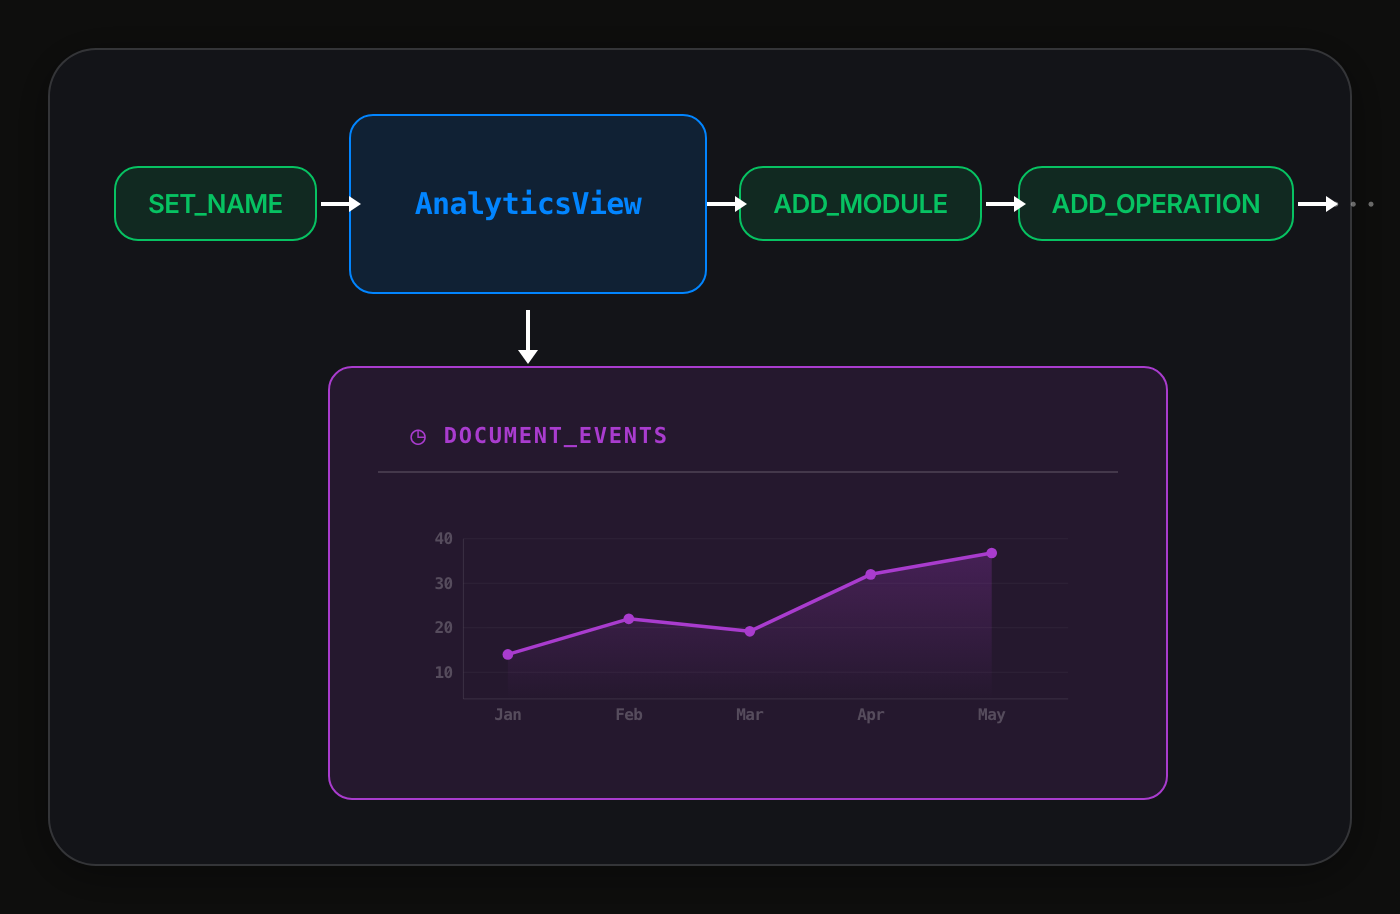
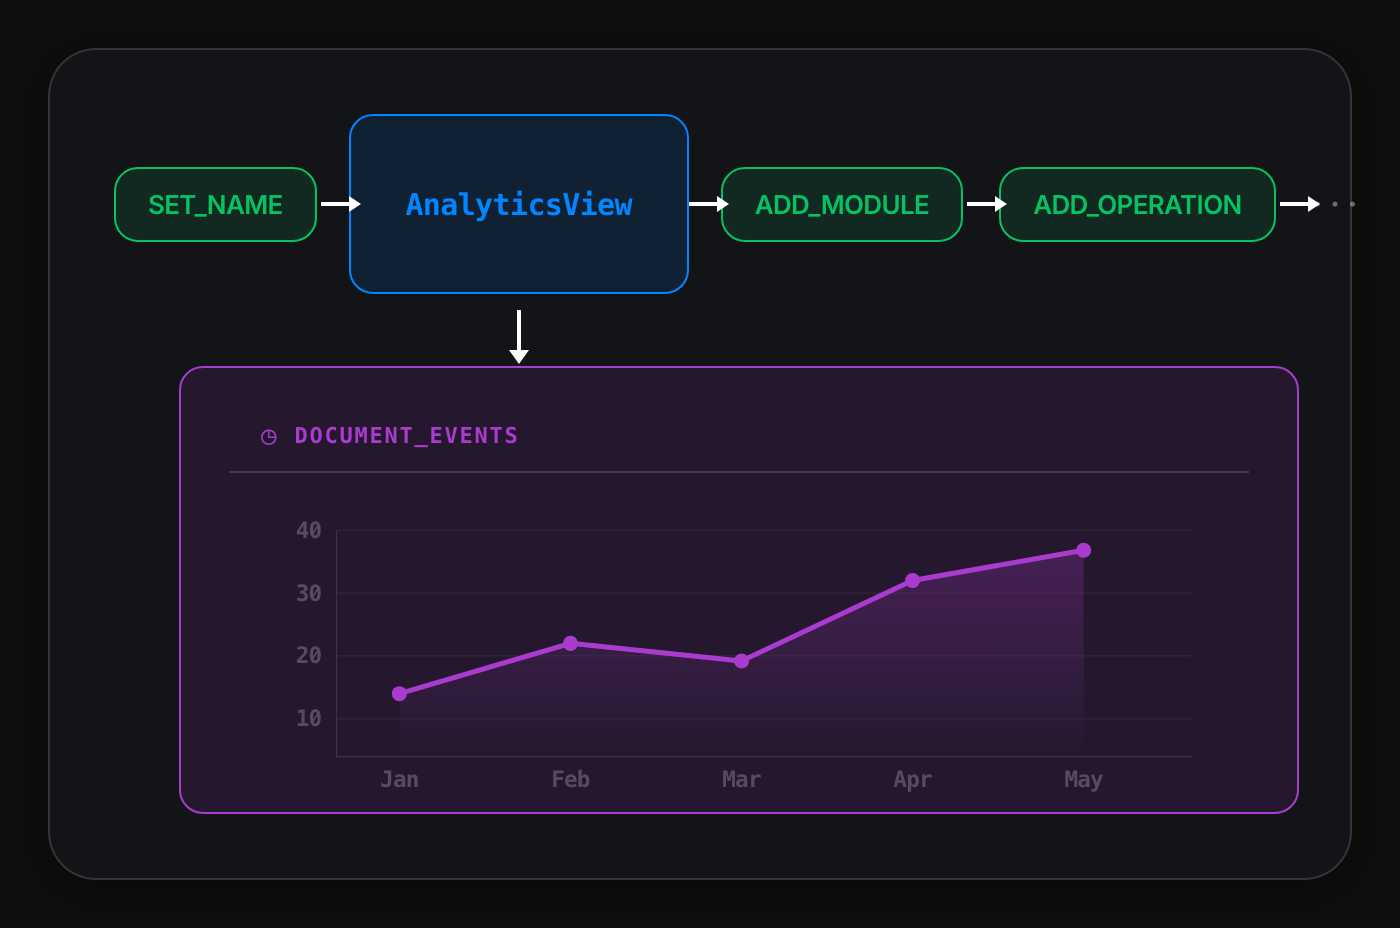
rebuild: the two read-model slides stop resizing between each other

diff --git a/diagrams/pages/analytics-read-model.html b/diagrams/pages/analytics-read-model.html
@@ -65,11 +65,14 @@
     }
 
     /* Tall function box in the middle */
+    /* Fixed size, so the two read-model slides put every part in the same place
+       no matter which view name sits in the middle. */
     .fn-box {
       grid-column: 2;
       grid-row: 1;
+      width: 170px;
       min-height: 90px;
-      padding: var(--space-xl) var(--space-xl);
+      padding: var(--space-xl) var(--space-md);
       display: flex;
       align-items: center;
       justify-content: center;
@@ -144,10 +147,14 @@
     }
 
     /* ── Result chart box ── */
+    /* Same footprint as the document table on the previous slide */
     .result-box {
       border-radius: var(--radius-md);
       overflow: hidden;
-      min-width: 420px;
+      width: 560px;
+      height: 224px;
+      display: flex;
+      flex-direction: column;
     }
     .db-label {
       font-family: var(--font-mono, 'SF Mono', 'Fira Code', monospace);
@@ -165,7 +172,10 @@
       font-size: 13px;
     }
     .chart-area {
-      padding: var(--space-lg) var(--space-md) var(--space-md);
+      flex: 1;
+      display: flex;
+      align-items: center;
+      padding: var(--space-md) var(--space-md) var(--space-sm);
     }
     .chart-area svg {
       display: block;

diff --git a/diagrams/pages/read-model.html b/diagrams/pages/read-model.html
@@ -64,11 +64,14 @@
     }
 
     /* Tall function box in the middle */
+    /* Fixed size, so the two read-model slides put every part in the same place
+       no matter which view name sits in the middle. */
     .fn-box {
       grid-column: 2;
       grid-row: 1;
+      width: 170px;
       min-height: 90px;
-      padding: var(--space-xl) var(--space-xl);
+      padding: var(--space-xl) var(--space-md);
       display: flex;
       align-items: center;
       justify-content: center;
@@ -143,10 +146,14 @@
     }
 
     /* ── Result table (Postgres-style) ── */
+    /* Same footprint as the analytics chart on the next slide */
     .result-box {
       border-radius: var(--radius-md);
       overflow: hidden;
-      min-width: 420px;
+      width: 560px;
+      height: 224px;
+      display: flex;
+      flex-direction: column;
     }
     .db-label {
       font-family: var(--font-mono, 'SF Mono', 'Fira Code', monospace);
@@ -164,6 +171,7 @@
       font-size: 13px;
     }
     .result-table {
+      flex: 1;
       width: 100%;
       border-collapse: collapse;
       font-family: var(--font-mono, 'SF Mono', 'Fira Code', monospace);
